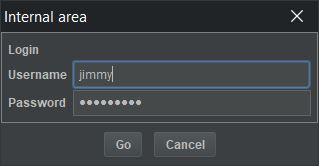
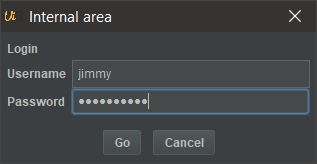
Fixes #23

Changed region(s): [[0.0, 0.0, 1.0, 0.7622], [0.5394, 0.8537, 0.653, 0.9146], [0.3691, 0.8232, 0.4259, 0.8841]]

diff --git a/src/main/java/de/milchreis/uibooster/components/LoginDialog.java b/src/main/java/de/milchreis/uibooster/components/LoginDialog.java
@@ -4,7 +4,6 @@ import de.milchreis.uibooster.model.DialogClosingState;
 import de.milchreis.uibooster.model.LoginCredentials;
 
 import javax.swing.*;
-import javax.swing.border.LineBorder;
 import java.awt.*;
 import java.awt.event.KeyEvent;
 import java.awt.event.KeyListener;
@@ -15,14 +14,10 @@ import static de.milchreis.uibooster.utils.WindowIconHelper.applyWindowIcon;
 
 public class LoginDialog extends JDialog {
 
-    private JTextField tfUsername;
-    private JPasswordField pfPassword;
-    private JLabel lbAddress;
-    private JLabel lbUsername;
-    private JLabel lbPassword;
-    private JButton btnLogin;
-    private JButton btnCancel;
-    private DialogClosingState closingState;
+    private final JTextField tfUsername;
+    private final JPasswordField pfPassword;
+    private final JButton btnLogin;
+    private final DialogClosingState closingState;
 
     public LoginDialog(String title, String message, String usernameLabel, String passwordLabel, String loginButtonLabel, String cancelButtonLabel, String iconPath) {
         super((JFrame) null, title, true);
@@ -33,13 +28,13 @@ public class LoginDialog extends JDialog {
         cs.ipadx = 5;
         cs.ipady = 5;
 
-        lbAddress = new JLabel(message);
+        JLabel lbAddress = new JLabel(message);
         cs.gridx = 0;
         cs.gridy = 0;
         cs.gridwidth = 2;
         panel.add(lbAddress, cs);
 
-        lbUsername = new JLabel(usernameLabel);
+        JLabel lbUsername = new JLabel(usernameLabel);
         cs.gridx = 0;
         cs.gridy = 1;
         cs.gridwidth = 1;
@@ -51,7 +46,7 @@ public class LoginDialog extends JDialog {
         cs.gridwidth = 2;
         panel.add(tfUsername, cs);
 
-        lbPassword = new JLabel(passwordLabel);
+        JLabel lbPassword = new JLabel(passwordLabel);
         cs.gridx = 0;
         cs.gridy = 2;
         cs.gridwidth = 1;
@@ -62,7 +57,6 @@ public class LoginDialog extends JDialog {
         cs.gridy = 2;
         cs.gridwidth = 2;
         panel.add(pfPassword, cs);
-        panel.setBorder(new LineBorder(Color.GRAY));
 
         pfPassword.addKeyListener(new KeyListener() {
 
@@ -87,7 +81,7 @@ public class LoginDialog extends JDialog {
         btnLogin = new JButton(loginButtonLabel);
 
         btnLogin.addActionListener(e -> dispose());
-        btnCancel = new JButton(cancelButtonLabel);
+        JButton btnCancel = new JButton(cancelButtonLabel);
         btnCancel.addActionListener(e -> {
             closingState.setClosedByUser(true);
             dispose();
